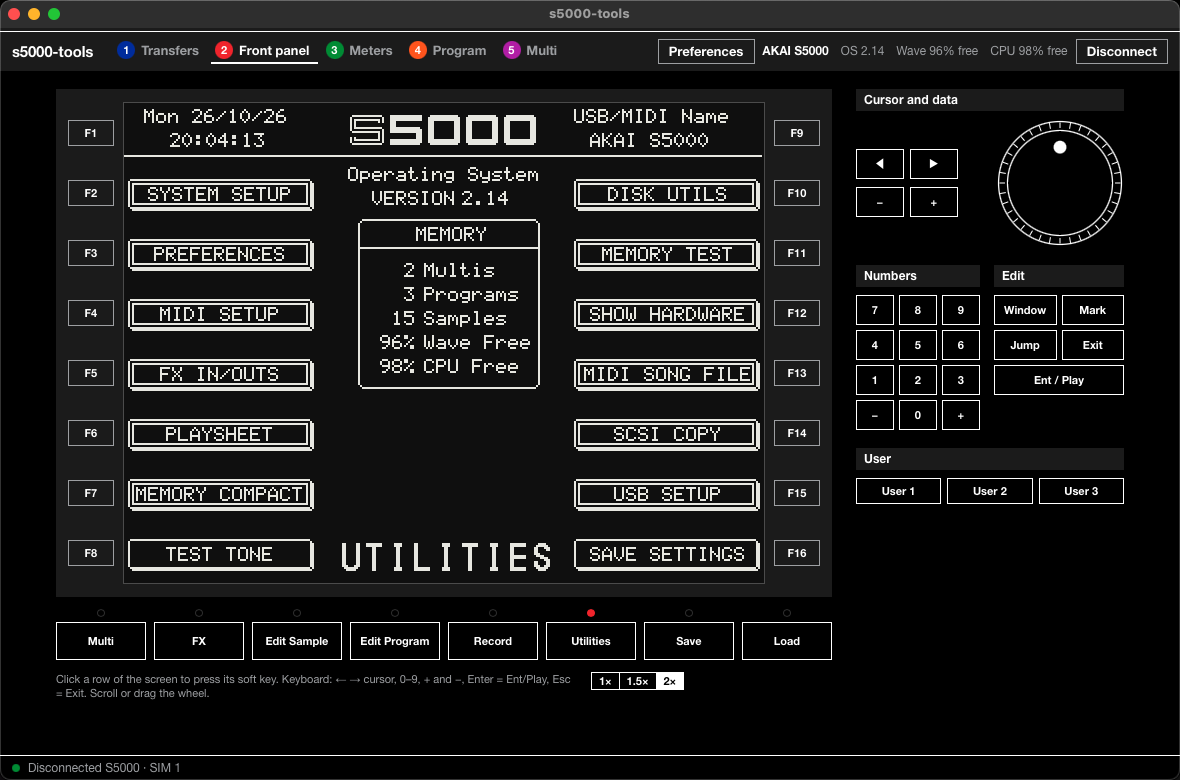
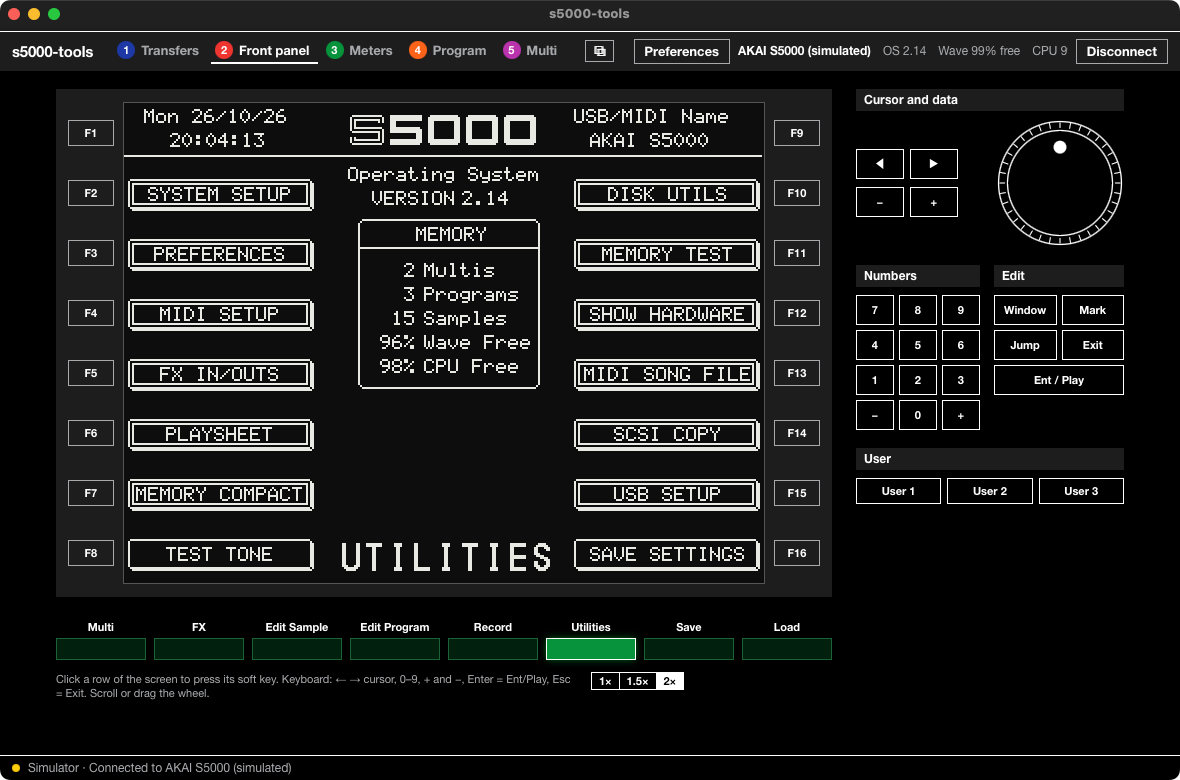
README: new screenshots; release notes: disk operations no longer experimental
Screenshots retaken from the simulator in the Dark scheme: the transfers
view, the dependency dialog, the front panel with its lit mode buttons,
the two-pane program editor and the multi editor's mixer. The front
panel's screen is the one from the previous screenshot (the simulator
draws a blank screen).

diff --git a/README.md b/README.md
@@ -15,8 +15,8 @@ replace Akai's Windows-only ak.Sys on macOS, Linux and Windows.
 |---|---|
 | ![The front panel: the sampler's live screen with its soft keys beside the rows](docs/images/front-panel.png) | ![Copying a multi with the programs and samples it uses](docs/images/dependencies.png) |
 | **Front panel**: the live screen; click a row or its key | **Dependencies**: programs and multis bring what they use |
-| ![The program editor](docs/images/program.png) | ![The multi editor](docs/images/multi.png) |
-| **Program editor**: every setting, live | **Multi editor**: the parts table, live |
+| ![The program editor](docs/images/program.png) | ![The multi editor's mixer view](docs/images/multi.png) |
+| **Program editor**: every setting, live | **Multi editor**: a mixing desk, a table or key ranges, live |
 
 ## What's here
 

diff --git a/.github/release-notes.md b/.github/release-notes.md
@@ -18,6 +18,4 @@ click to open an app that isn't signed by Apple. Linux needs a udev rule.
 Windows needs the WinUSB driver, which replaces Akai's driver until you
 switch back.
 
-Disk operations (load, save, delete on the sampler's disks) are
-**experimental** and the app asks before the first one. Setting a multi's
-MIDI program number is untested on hardware.
+Setting a multi's MIDI program number is untested on hardware.
